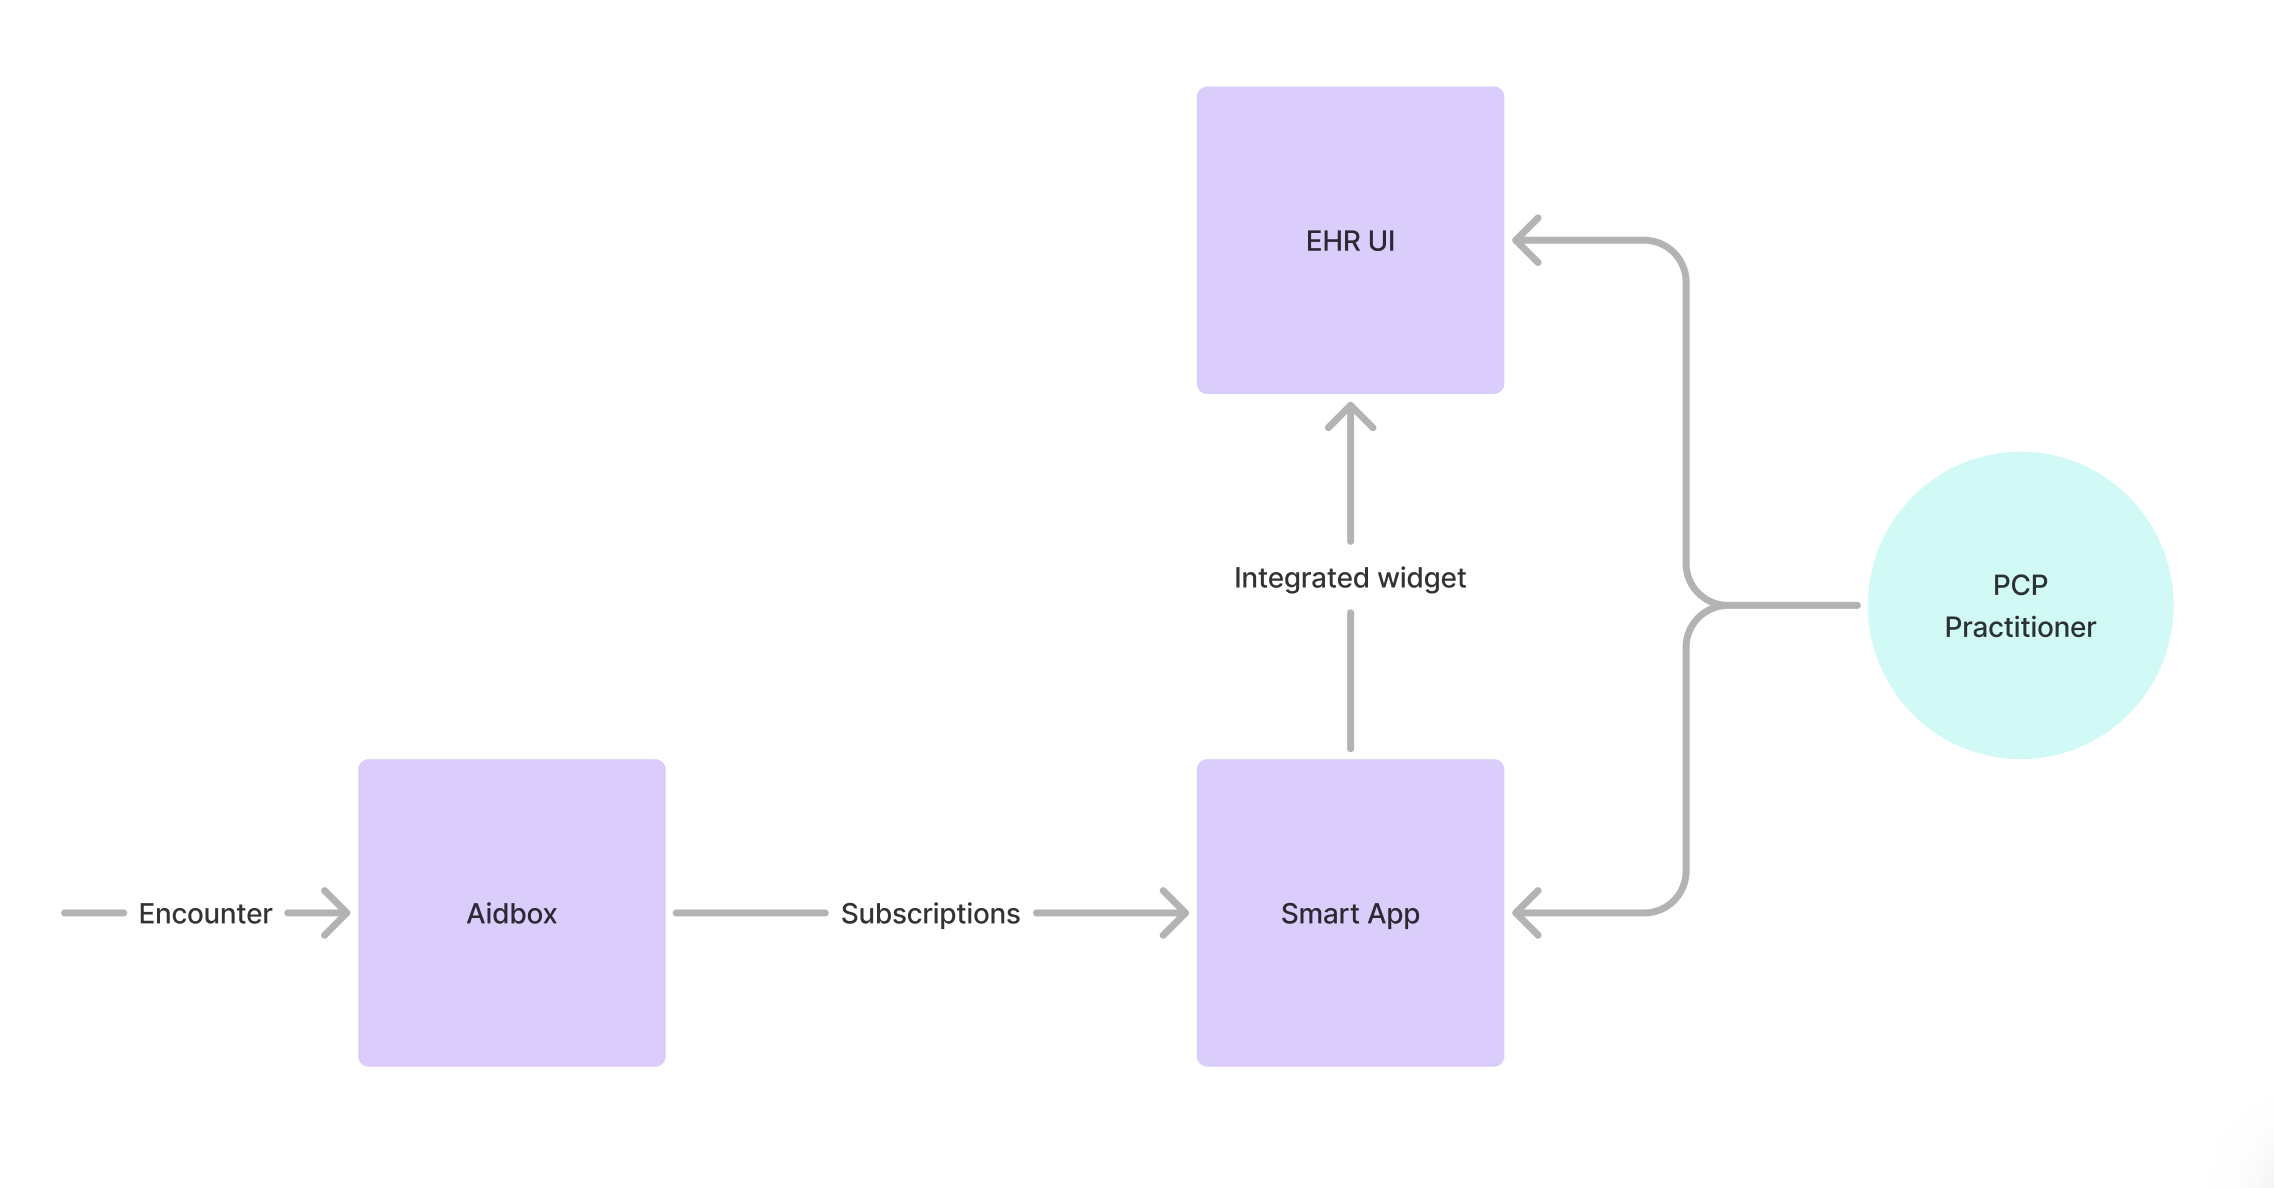
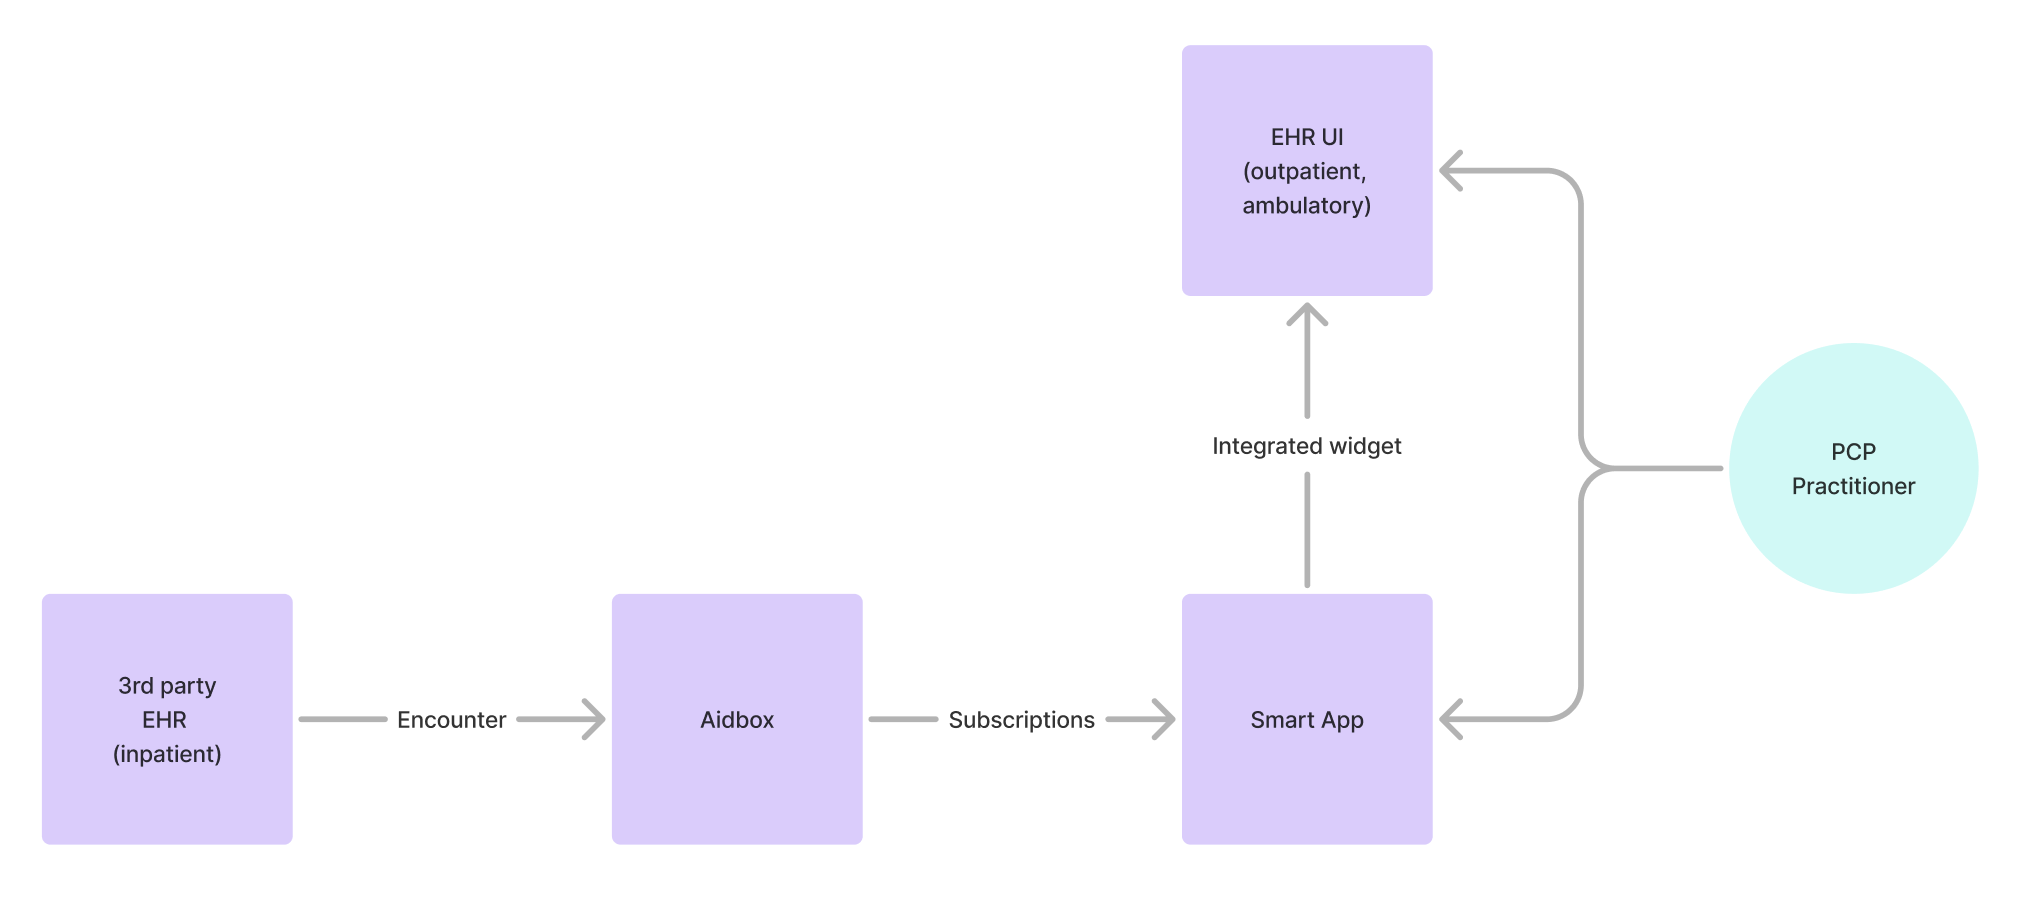
updated diagram

diff --git a/smart-app-launch-subscriptions/README.md b/smart-app-launch-subscriptions/README.md
@@ -1,7 +1,45 @@
 # Smart App Launch Subscriptions
 
+## Description
 The Smart App Launch Subscriptions is an fullstack application which allows to integrate widget into your EHR UI.
-Widget allows to receive and display notifications about Encounter of relevant Patient of PCP Practitioner
+Widget allows to receive and display notifications about Encounter of relevant Patient of PCP Practitioner.
+
+## Use Case Description
+ **Use Case**: Integration of Inpatient and Outpatient EHR Systems with Smart App for PCP Practitioners
+
+#### Actors:
+- 3rd Party EHR (Inpatient): An external Electronic Health Record system used for inpatient encounters.
+
+- Aidbox: A FHIR-based backend that aggregates and manages healthcare data.
+
+- Smart App: A healthcare application that processes patient encounter data and integrates with outpatient EHR systems.
+
+- EHR UI (Outpatient, Ambulatory): The front-end system used by healthcare practitioners for outpatient and ambulatory care.
+
+- PCP Practitioner: The primary care provider (PCP) who interacts with the system through the EHR UI and Smart App.
+
+### Component Diagram
+
+![Diagram](docs/images/diagram.png)
+
+### Workflow
+**1. Encounter Creation in 3rd Party EHR (Inpatient):**
+
+- A patient has an encounter in an inpatient setting.
+- This encounter data is stored in the 3rd party EHR.
+
+**2.Data Transfer to Aidbox:**
+- The encounter information is sent to Aidbox, which acts as an intermediary FHIR-based data storage and processing layer.
+
+**3.Subscription to Updates by Smart App:**
+- Smart App subscribes to Aidbox to receive real-time updates on patient encounters.
+
+**4.Integration with Outpatient EHR UI:**
+- The Smart App processes the encounter data and integrates with the EHR UI (Outpatient, Ambulatory) through an embedded widget.
+
+**5.PCP Practitioner Interaction:**
+- The PCP Practitioner accesses patient encounter data through the EHR UI.
+- The practitioner can view and interact with the encounter data via the Smart App widget integrated into the EHR system.
 
 # Components
 
@@ -170,10 +208,6 @@ POST /fhir/Encounter
   ]
 }
 ```
-
-# Component Diagram
-
-![Diagram](docs/images/diagram.png)
 
 # Interaction Diagram
 
